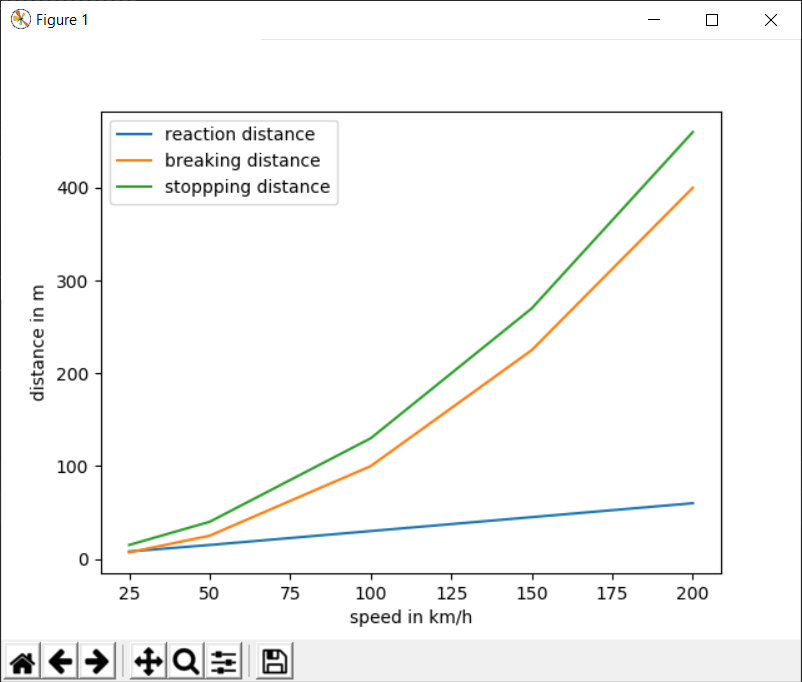
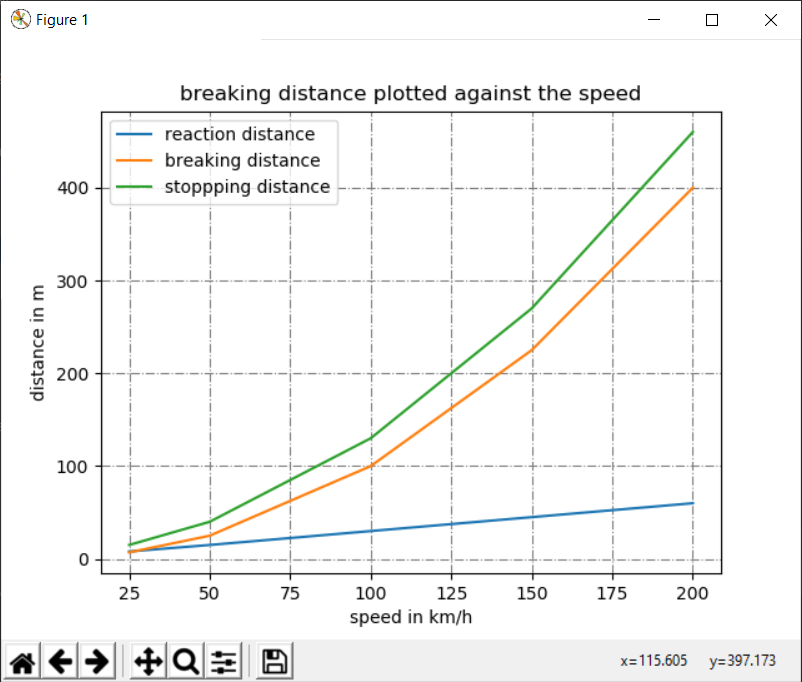
exercise 1: better and cleaner

diff --git a/break_path.py b/break_path.py
@@ -3,7 +3,6 @@ speed = [25, 50, 100, 150, 200] # km/h
 reactionDistance = [8, 15, 30, 45, 60] # m
 breakDistance = [7, 25, 100, 225, 400] # m
 stoppingDistance = [a + b for a,b in zip(reactionDistance, breakDistance)] # too lazy to write the prepared sums
-print(stoppingDistance)
 
 #-----------------------------------------------------------------
 
@@ -12,13 +11,14 @@ def makeAPlot():
 
     plt.plot(speed, reactionDistance, label = "reaction distance")
     plt.plot(speed, breakDistance, label = "breaking distance")
-    plt.plot(speed, stoppingDistance, label = "stoppping distance")
-    plt.legend()
+    plt.plot(speed, stoppingDistance, label = "stopping distance")
+    plt.legend() # add a legend for the graphs (with colors)
+
+    plt.title("breaking distance plotted against the speed")
+    plt.grid(color = 'grey', linestyle = '-.')
 
     plt.xlabel("speed in km/h")
     plt.ylabel("distance in m")
-
-    # todo add a legend for the graphs (with colors)
 
     plt.show()
 
